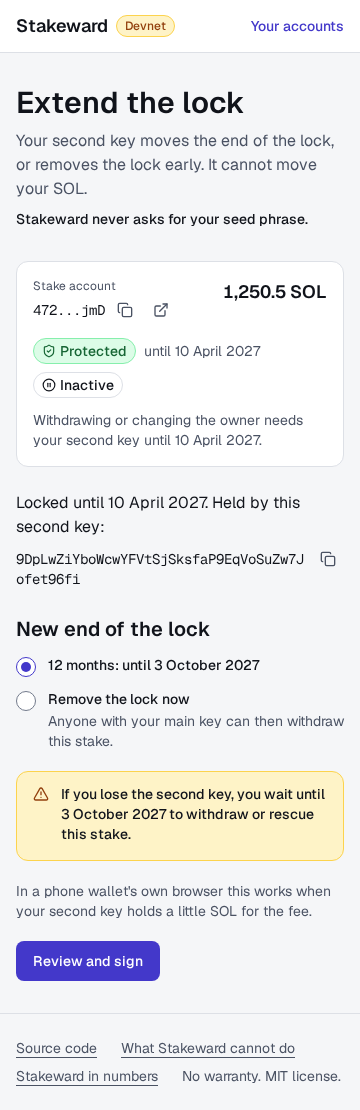
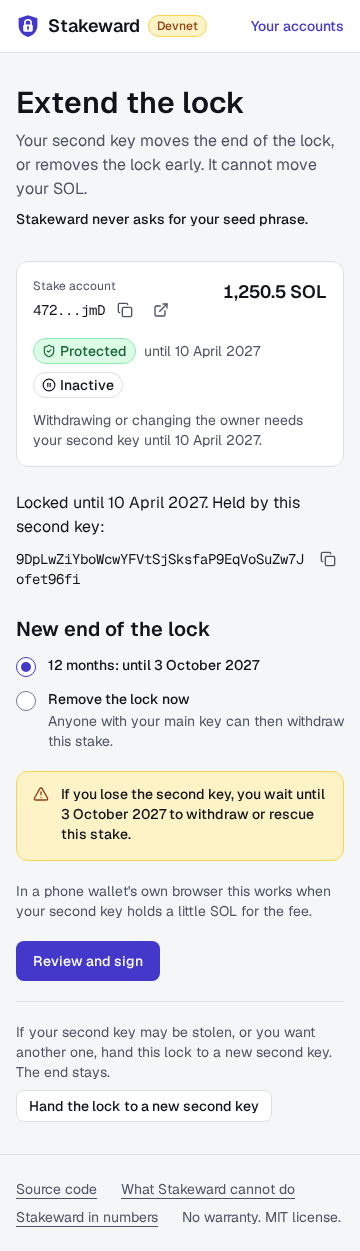
test(web): /second-key in the smoke loop, its screenshots
The route joins the one smoke test (still 9 Playwright tests): read
with no wallet, the current second key in full, the slot named New
second key, the risks with the date, the seed phrase box; axe in both
themes at 1280 and 360. /extend shows its link and the recovery card
its "With Stakeward" line for a stolen second key.

New docs/screens/second-key-{1280,360}.png; extend and recovery
shots updated for the new link and line.

diff --git a/apps/web/e2e/smoke.spec.ts b/apps/web/e2e/smoke.spec.ts
@@ -89,7 +89,35 @@ const ROUTES: readonly SmokeRoute[] = [
   },
   { path: '/protect', heading: 'Protect your stake', ready: null, screen: 'protect-start' },
   { path: `/withdraw/${SMOKE_STAKE}`, heading: 'Withdraw', ready: 'Withdraw 1,250.5 SOL to your main key', screen: 'withdraw' },
-  { path: `/extend/${SMOKE_STAKE}`, heading: 'Extend the lock', ready: 'New end of the lock', screen: 'extend' },
+  {
+    path: `/extend/${SMOKE_STAKE}`,
+    heading: 'Extend the lock',
+    ready: 'New end of the lock',
+    shows: async (page) => {
+      // The way to F7, one step aside from extending.
+      await expect(page.getByRole('link', { name: 'Hand the lock to a new second key' })).toHaveAttribute(
+        'href',
+        `/second-key/${SMOKE_STAKE}`,
+      );
+    },
+    screen: 'extend',
+  },
+  {
+    // F7: the second key hands the lock to a new one. The page reads the account with no wallet; the new key is a
+    // wallet connected in the slot named for it here.
+    path: `/second-key/${SMOKE_STAKE}`,
+    heading: 'Change the second key',
+    ready: 'Connect your new second key',
+    shows: async (page) => {
+      await expect(page.locator('[data-slot="current-second-key"]').getByText(SECOND, { exact: true })).toBeVisible();
+      await expect(page.getByRole('group', { name: 'New second key' })).toBeVisible();
+      await expect(page.getByRole('button', { name: 'Connect a wallet as New second key' })).toBeVisible();
+      await expect(page.locator('[data-risk="second-key-can-freeze"]')).toContainText('This change keeps the end of the lock');
+      await expect(page.locator('[data-risk="lose-second-key"]')).toBeVisible();
+      await expect(page.getByRole('checkbox', { name: 'My new second key comes from a different seed phrase than my main key' })).toBeVisible();
+    },
+    screen: 'second-key',
+  },
   {
     // Telegram's "Open Rescue" lands here with the main key filled in: step 1 reads its stake with no wallet.
     path: `/rescue?address=${MAIN}`,
@@ -118,6 +146,10 @@ const ROUTES: readonly SmokeRoute[] = [
       await expect(steps).toHaveCount(5);
       for (const step of await steps.all()) await expect(step).toHaveCSS('display', 'list-item');
       await expect(page.locator('[data-slot="command-block"]').first()).toContainText(MAIN);
+      // A stolen second key: the page that hands the lock to a new one, by its full address (it prints).
+      await expect(
+        page.getByRole('region', { name: 'If your second key is stolen' }).getByRole('link', { name: new RegExp(`/second-key/${SMOKE_STAKE}$`) }),
+      ).toHaveAttribute('href', `/second-key/${SMOKE_STAKE}`);
       // On paper: no site frame and no buttons, and the light theme even when the screen is dark.
       await page.emulateMedia({ media: 'print', colorScheme: 'dark' });
       await expect(page.getByRole('banner')).toBeHidden();
